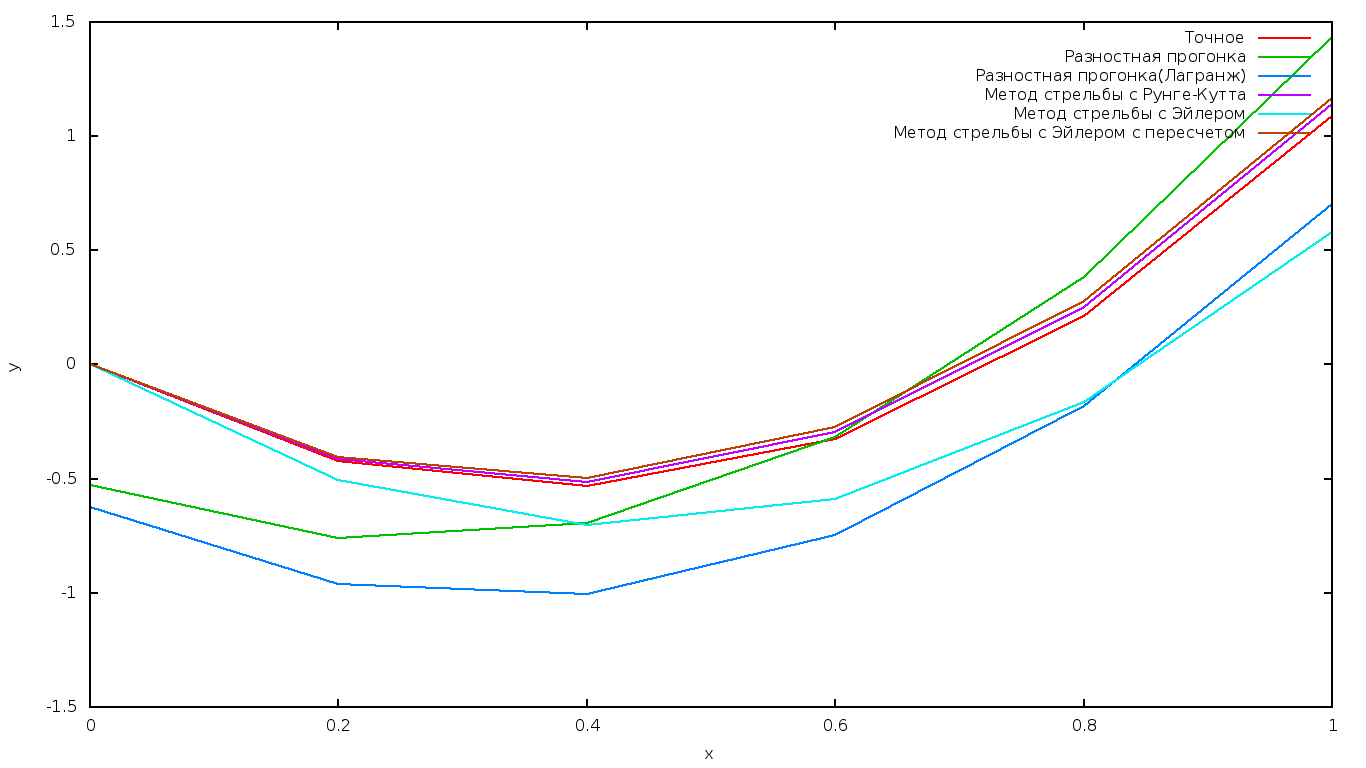
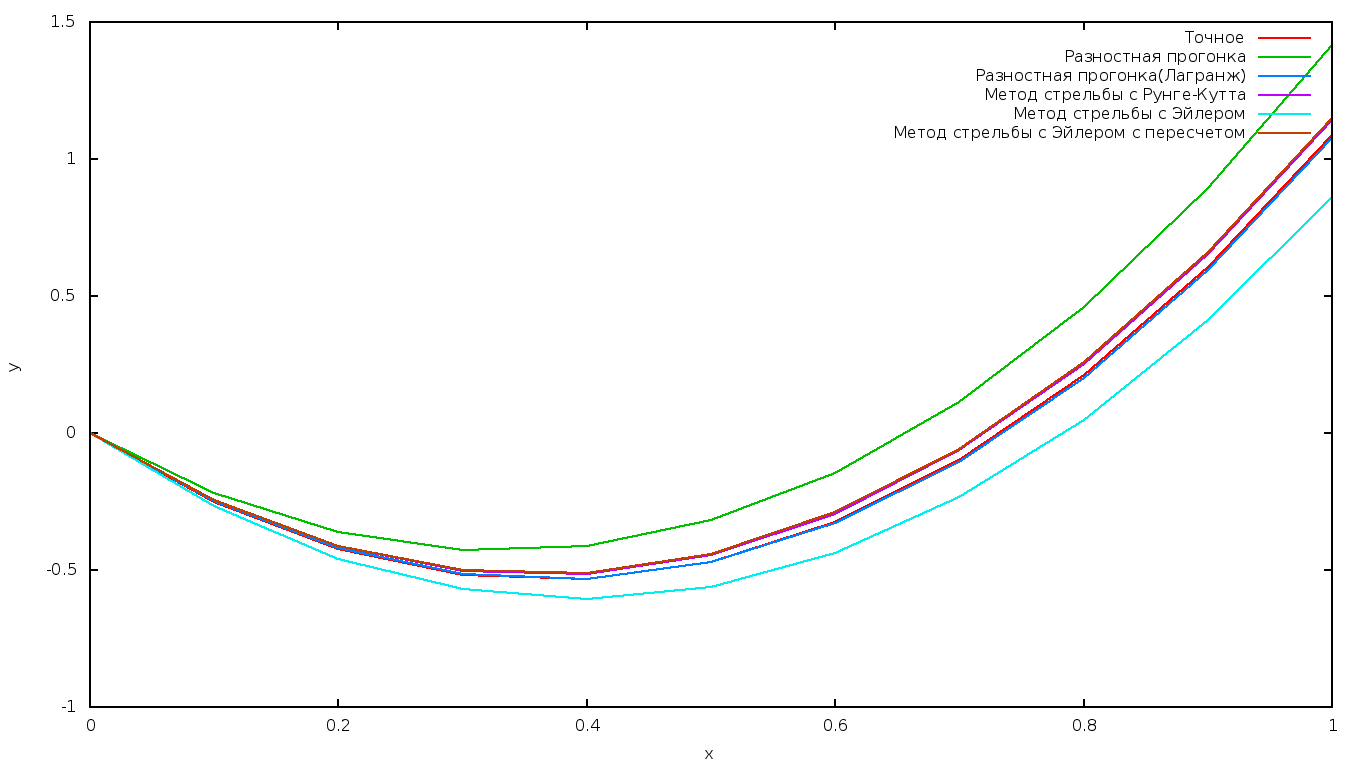
fix lab3

diff --git a/lab3.cpp b/lab3.cpp
@@ -59,7 +59,8 @@ void TridiagonalMatrixAlgorithm( int N, std::vector< FP >& solution )
 
 	FP xi = 0.0;
 
-	for( int i = 0; i < N; i++ )
+	A[ 0 ][ 0 ] = 1.0;
+	for( int i = 1; i < N; i++ )
 	{
 		FP b = 2.0 + h * h;
 
@@ -104,7 +105,8 @@ void TridiagonalMatrixAlgorithmLagrange( int N, std::vector< FP >& solution )
 
 	FP b = 2.0 + h * h;
 
-	for( int i = 0; i < N; i++ )
+	A[ 0 ][ 0 ] = 1.0;
+	for( int i = 1; i < N; i++ )
 	{
 		if( i != 0 )
 			A[ i ][ i - 1 ] = 1.0;
